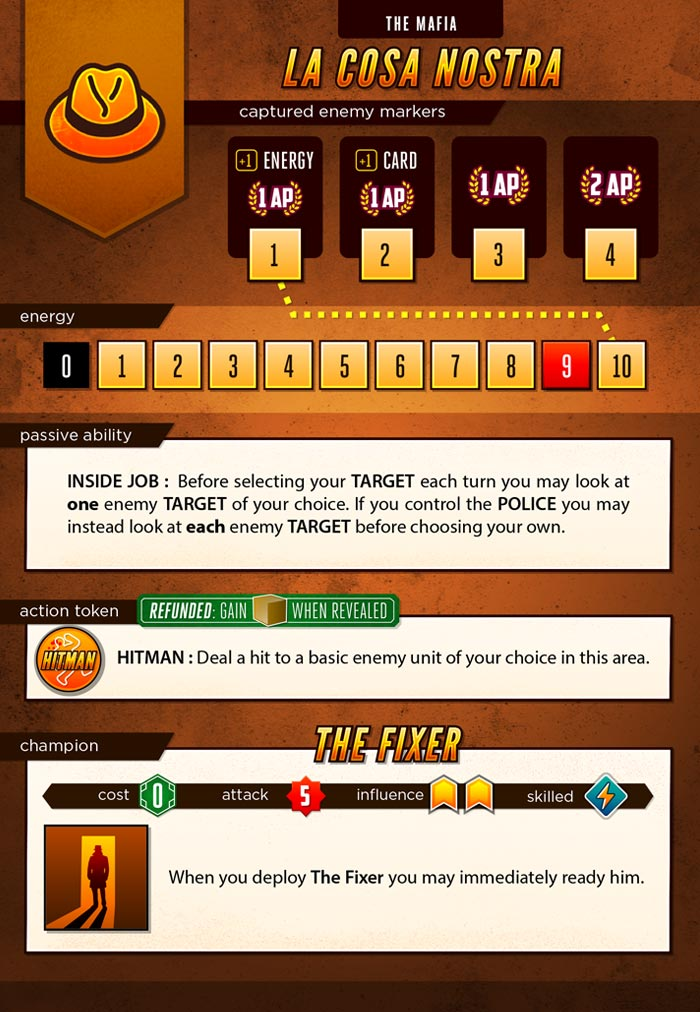
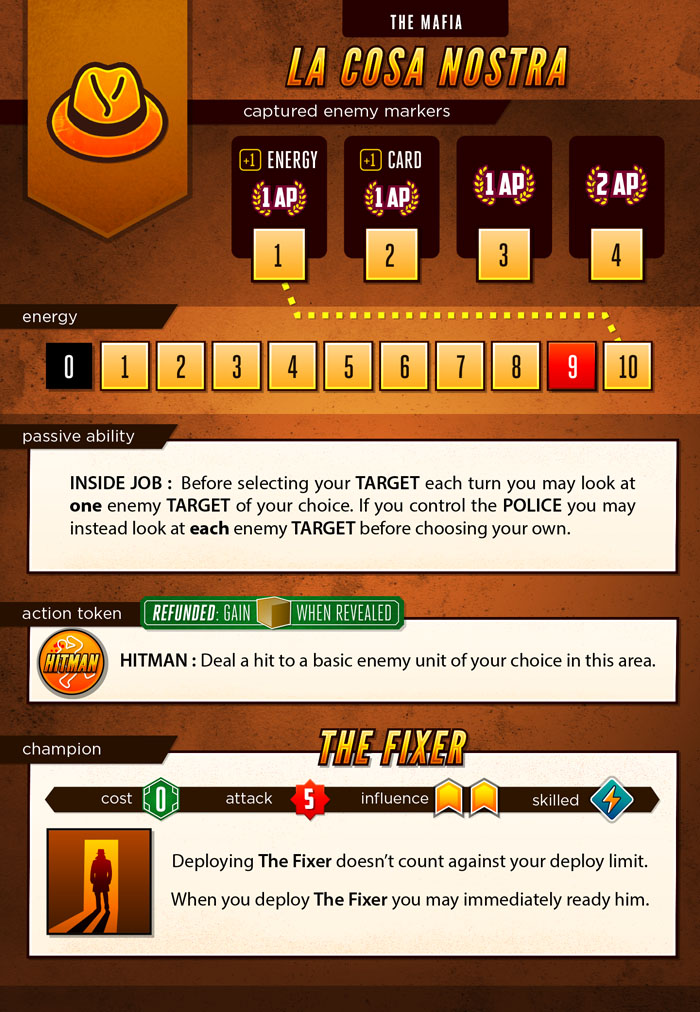
The Fixer no longer uses deploy limit

Changed region(s): [[0.0, 0.0, 0.99, 0.9496], [0.96, 0.0613, 1.0, 0.0919], [0.18, 0.2144, 0.21, 0.2451]]

diff --git a/server/classes/factions/Mafia.js b/server/classes/factions/Mafia.js
@@ -18,6 +18,7 @@ class Mafia extends Faction {
         this.data.spy = null; // the faction we are spying on
         this.data.title = "La Cosa Nostra";
         this.data.focusDescription = "Infiltrate or control enemy targets";
+        this.data.bonusDeploy = { type: 'champion', count: 1 };
 
         //tokens
         this.tokens['hit-man'] = {
@@ -52,17 +53,6 @@ class Mafia extends Faction {
             }
         };
     }
-
-
-    /**
-     * Process faction upgrade
-     *
-     * @param {number} upgrade
-     */
-    processUpgrade( upgrade ){
-        this.data.bonusDeploy = { type: 'champion', count: 1 };
-    }
-
 
     /**
      * Choose an enemy to spy on their target
@@ -107,12 +97,18 @@ class Mafia extends Faction {
             fixer.ready = true;
         }
 
-        /// if we don't have our second upgrade yet, then we are done
-        if( this.data.upgrade !== 2) return;
+        /// if we don't have our upgrades yet, then we are done
+        if( !this.data.upgrade ) return;
 
         // the fixer makes an attack upon entering the area if we have our second upgrade
         let area = this.game().areas[ fixer.location ];
-        let output = await this.attack( { area : area, attacks : fixer.attack , unit : event.unit, optional : true } ).catch( error => console.error( error ) );
+        let output = await this.attack({
+            area: area,
+            attacks: fixer.attack,
+            unit: event.unit,
+            optional: true,
+            attackBonus: this.data.upgrade === 2 ? 2 : 0,  // if we have our second upgrade add 2 to this attack
+        }).catch( error => console.error( error ) );
 
         if( output ){
             await this.game().timedPrompt('noncombat-attack', { output : [output] } )

diff --git a/server/classes/factions/mixins/collectsUpgrades.js b/server/classes/factions/mixins/collectsUpgrades.js
@@ -15,7 +15,10 @@ let obj = {
 
         // process our upgrade
         this.data.upgrade = upgrade;
-        this.processUpgrade( upgrade );
+        if(this.processUpgrade){
+            this.processUpgrade( upgrade );
+        }
+
         return {
             faction : this.name,
             upgrade: upgrade
